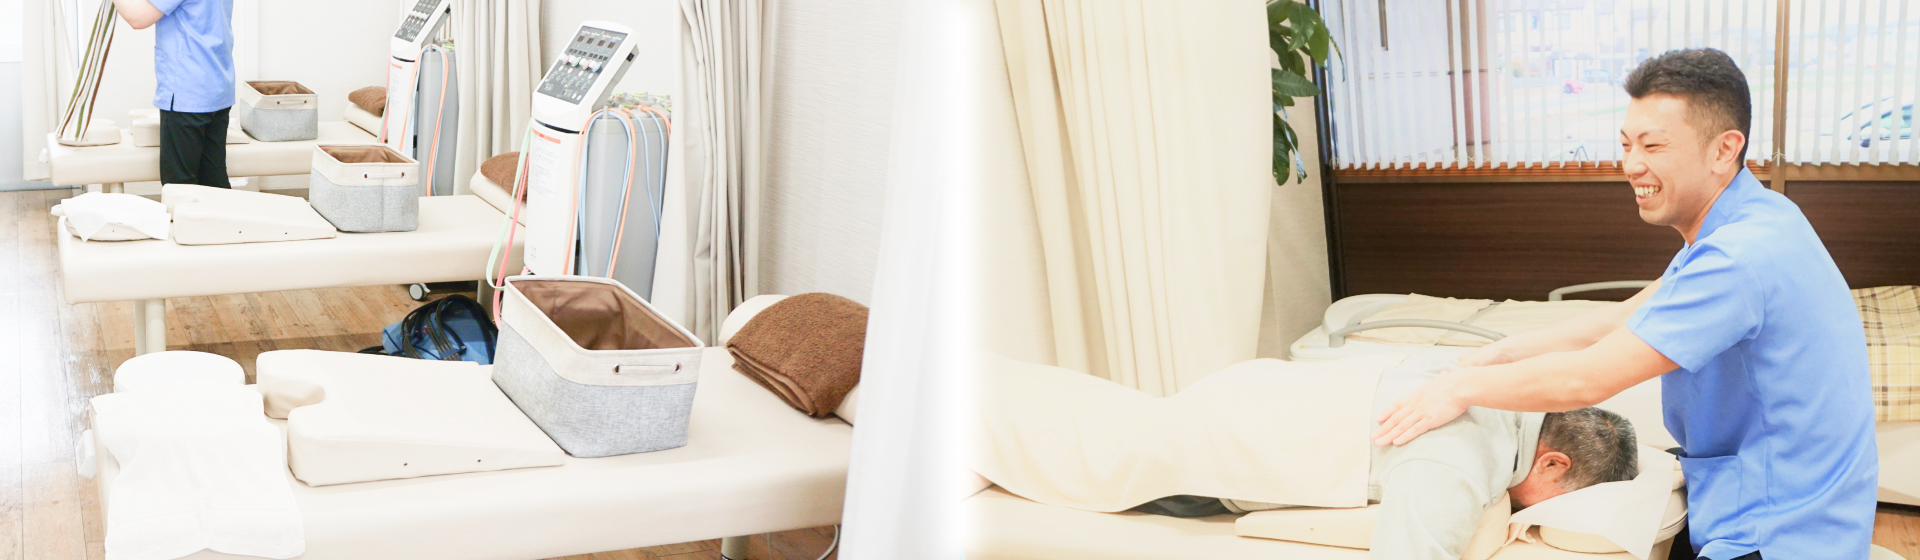
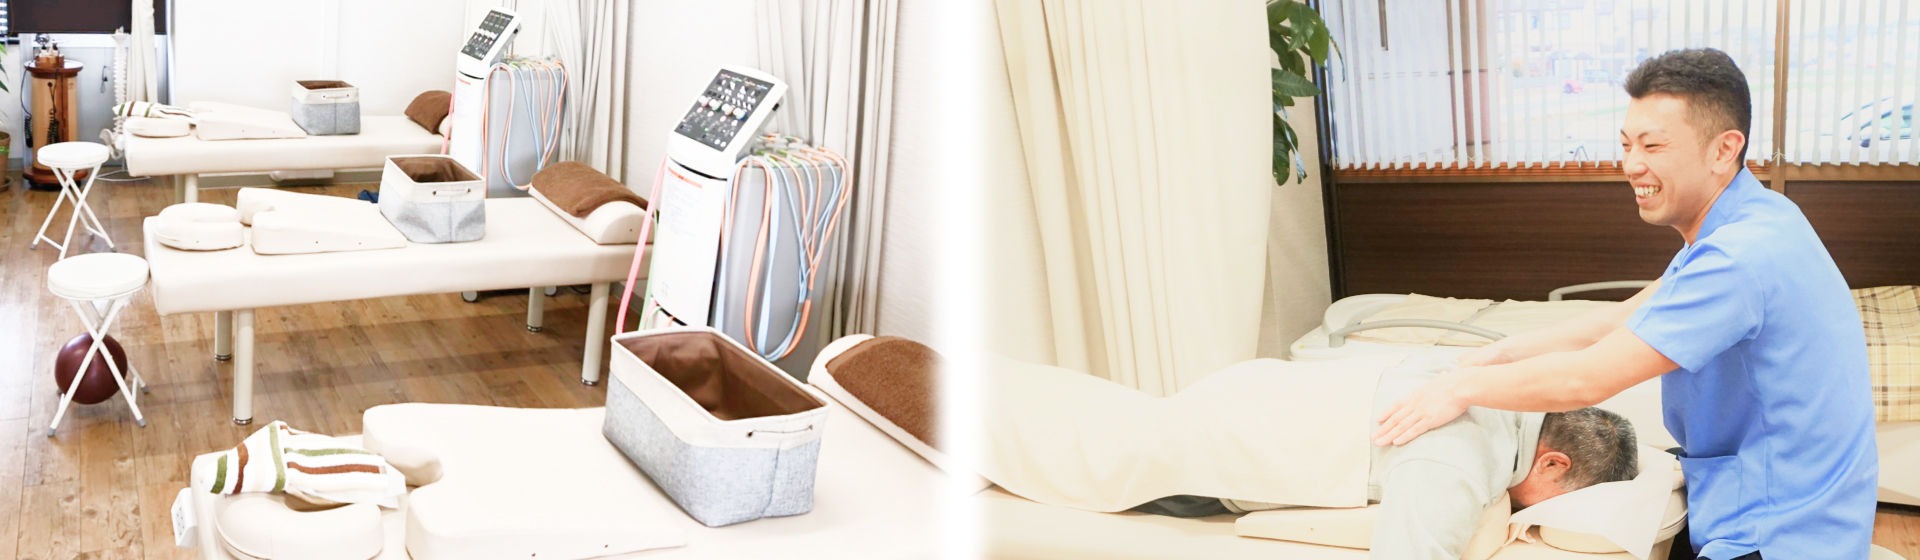
update_機材部分の写真追加

diff --git a/dist/index.html b/dist/index.html
@@ -14,6 +14,24 @@
     <meta http-equiv="X-UA-Compatible" content="IE=edge" />
     <meta name="format-detection" content="email=no,telephone=no,address=no" />
 
+    <!-- Google Tag Manager -->
+    <script>
+      (function(w, d, s, l, i) {
+        w[l] = w[l] || [];
+        w[l].push({
+          "gtm.start": new Date().getTime(),
+          event: "gtm.js"
+        });
+        var f = d.getElementsByTagName(s)[0],
+          j = d.createElement(s),
+          dl = l != "dataLayer" ? "&l=" + l : "";
+        j.async = true;
+        j.src = "https://www.googletagmanager.com/gtm.js?id=" + i + dl;
+        f.parentNode.insertBefore(j, f);
+      })(window, document, "script", "dataLayer", "GTM-NSPKT6J");
+    </script>
+    <!-- End Google Tag Manager -->
+
     <!-- OGP設定 -->
     <meta property="og:url" content="https://nishikatakai-sekkotuin.com/" />
     <meta
@@ -131,6 +149,17 @@
   </head>
 
   <body>
+    <!-- Google Tag Manager (noscript) -->
+    <noscript
+      ><iframe
+        src="https://www.googletagmanager.com/ns.html?id=GTM-NSPKT6J"
+        height="0"
+        width="0"
+        style="display:none;visibility:hidden"
+      ></iframe
+    ></noscript>
+    <!-- End Google Tag Manager (noscript) -->
+
     <!-- HEADER -->
 
     <header id="id_top" class="ly_header js_positionNow">
@@ -1855,8 +1884,8 @@
             </p>
             <p class="bl_group2_txt">
               また、<span class="hp_cRed"
-                >当院の提携病院、または患者様がいつもご利用されている病院と当院の併用</span
-              >でしっかり治していただけます。過去に事故で通院された患者様からは「治してくれてありがとう！」と大変喜ばれております。
+                >当院と当院の提携病院、または患者様がいつもご利用されている病院との併用</span
+              >でしっかり治していただけます。過去に交通事故で通院された患者様からは「治してくれてありがとう！」と大変喜ばれております。
             </p>
           </div>
         </div>
@@ -2435,7 +2464,7 @@
                   class="js_lazyLoad"
                   alt="超音波治療機の使用イメージ"
                   src="./img/loading_ico.svg"
-                  data-src="https://placehold.jp/150x150.png"
+                  data-src="./img/devices_img07.jpg"
                 />
               </figure>
               <p class="bl_group1_txt">
@@ -2453,7 +2482,7 @@
                   class="js_lazyLoad"
                   alt="ホットパックの使用イメージ"
                   src="./img/loading_ico.svg"
-                  data-src="https://placehold.jp/150x150.png"
+                  data-src="./img/devices_img08.jpg"
                 />
               </figure>
               <p class="bl_group1_txt">
@@ -2471,7 +2500,7 @@
                   class="js_lazyLoad"
                   alt="炭酸アトマイザーの使用イメージ"
                   src="./img/loading_ico.svg"
-                  data-src="https://placehold.jp/150x150.png"
+                  data-src="./img/devices_img09.jpg"
                 />
               </figure>
               <p class="bl_group1_txt">

diff --git a/dist/index-copy.html b/dist/index-copy.html
@@ -14,6 +14,24 @@
     <meta http-equiv="X-UA-Compatible" content="IE=edge" />
     <meta name="format-detection" content="email=no,telephone=no,address=no" />
 
+    <!-- Google Tag Manager -->
+    <script>
+      (function(w, d, s, l, i) {
+        w[l] = w[l] || [];
+        w[l].push({
+          "gtm.start": new Date().getTime(),
+          event: "gtm.js"
+        });
+        var f = d.getElementsByTagName(s)[0],
+          j = d.createElement(s),
+          dl = l != "dataLayer" ? "&l=" + l : "";
+        j.async = true;
+        j.src = "https://www.googletagmanager.com/gtm.js?id=" + i + dl;
+        f.parentNode.insertBefore(j, f);
+      })(window, document, "script", "dataLayer", "GTM-NSPKT6J");
+    </script>
+    <!-- End Google Tag Manager -->
+
     <!-- OGP設定 -->
     <meta property="og:url" content="https://nishikatakai-sekkotuin.com/" />
     <meta
